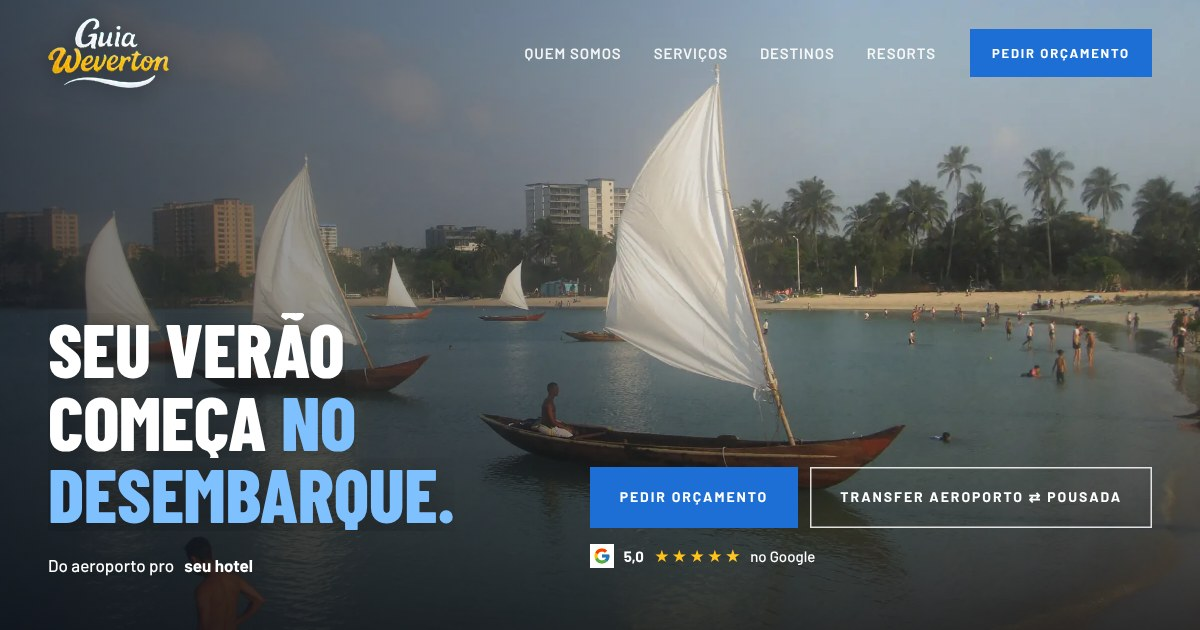
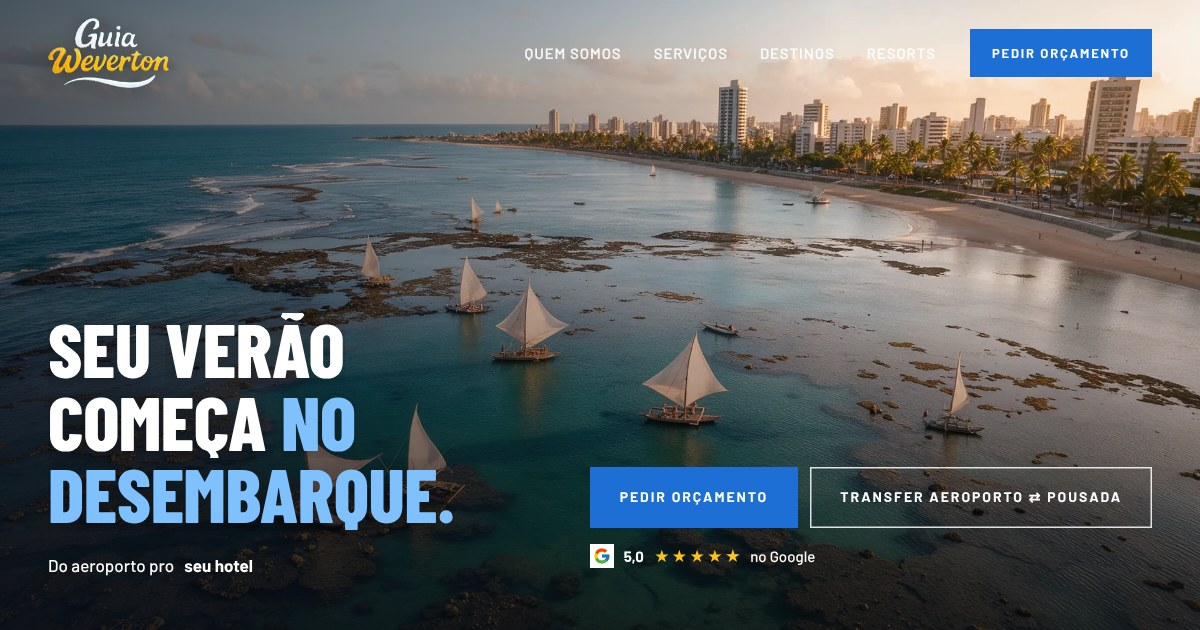
Prévia v4: capas aéreas sem pessoas, avaliações no fim, fita do Instagram contínua
Claude-Session: https://claude.ai/code/session_01C22FjvBUQqrK6Rtnr1V3yc

diff --git a/index.html b/index.html
@@ -410,8 +410,7 @@ footer .base{grid-column:1/-1;padding-top:22px;border-top:1px solid rgba(255,255
 .fita{position:relative;z-index:6;background:var(--papel);padding:clamp(80px,8vw,120px) 0;overflow:hidden}
 .fita .tit{margin-bottom:clamp(34px,4vw,54px)}
 .fita .tit a{color:var(--laranja);font-weight:700}
-.trilha{display:flex;gap:14px;width:max-content;animation:fita 60s linear infinite}
-.fita:hover .trilha{animation-play-state:paused}
+.trilha{display:flex;gap:14px;width:max-content;animation:fita 38s linear infinite}
 .trilha img{height:clamp(240px,24vw,360px);width:auto;aspect-ratio:4/5;object-fit:cover;flex:none}
 @keyframes fita{to{transform:translate3d(-50%,0,0)}}
 @media(prefers-reduced-motion:reduce){.trilha{animation:none}}
@@ -469,7 +468,7 @@ footer .base{grid-column:1/-1;padding-top:22px;border-top:1px solid rgba(255,255
 </header>
 
 <section class="hero" id="topo">
-  <picture><source media="(max-width:900px)" srcset="capa-v2-m.webp"><img decoding="async" class="bg" id="heroImg" fetchpriority="high" src="capa-v2.webp" alt="Jangadas na praia da Pajuçara, em Maceió"></picture>
+  <picture><source media="(max-width:900px)" srcset="capa-v2-m.webp"><img decoding="async" class="bg" id="heroImg" fetchpriority="high" src="capa-v2.webp" alt="Vista aérea das jangadas nas piscinas naturais da Pajuçara, em Maceió"></picture>
   <div class="wrap">
     <div class="esq"><h1 class="split" id="heroTit">Seu verão começa <em>no desembarque.</em></h1>
     <div class="bora h-fade">Do aeroporto pro <span class="slot" id="slot"><b>seu hotel</b><b>Milagres</b><b>Hibiscus</b><b>Maragogi</b><b>Gunga</b><b>seu hotel</b></span></div></div>
